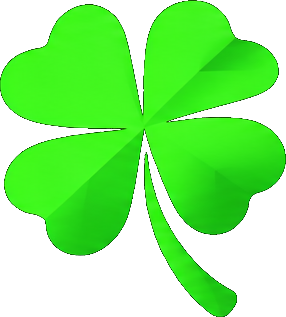
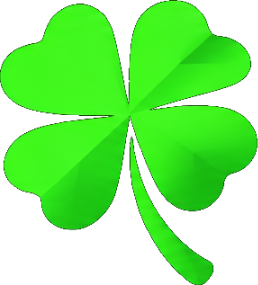
Add files via upload

diff --git a/src/components/ui.tsx b/src/components/ui.tsx
@@ -2,14 +2,9 @@ import { useState, type CSSProperties, type ReactNode } from 'react'
 import { RARITY_COLOR, type Item } from '../services/types'
 
 export function Clover({ size = 24, className = '', style }: { size?: number; className?: string; style?: CSSProperties }) {
-  const leaf = 'M50 50C41 43 31 35 31 25C31 15 44 12 50 22C56 12 69 15 69 25C69 35 59 43 50 50Z'
-  return (
-    <svg className={className} style={style} width={size} height={size} viewBox="0 0 100 100" fill="none" aria-hidden>
-      {[0, 90, 180, 270].map(r => <path key={r} d={leaf} fill="currentColor" transform={`rotate(${r} 50 50)`} />)}
-      <path d="M52 52Q53 72 64 88" stroke="currentColor" strokeWidth="5" strokeLinecap="round" />
-    </svg>
-  )
+  return <img src="/clover.png" className={className} style={{ width: size, height: size, objectFit: 'contain', ...style }} alt="" aria-hidden />
 }
+
 const P: Record<string, string> = {
   search: 'M11 4a7 7 0 105 11.9l4.5 4.6 1.4-1.4-4.6-4.5A7 7 0 0011 4z', x: 'M6 6l12 12M18 6L6 18', plus: 'M12 5v14M5 12h14',
   vol: 'M4 9v6h4l5 4V5L8 9H4zm12 0a4 4 0 010 6', mute: 'M4 9v6h4l5 4V5L8 9H4zm13 1l5 5m0-5l-5 5', user: 'M12 12a4 4 0 100-8 4 4 0 000 8zm-7 8a7 7 0 0114 0',
